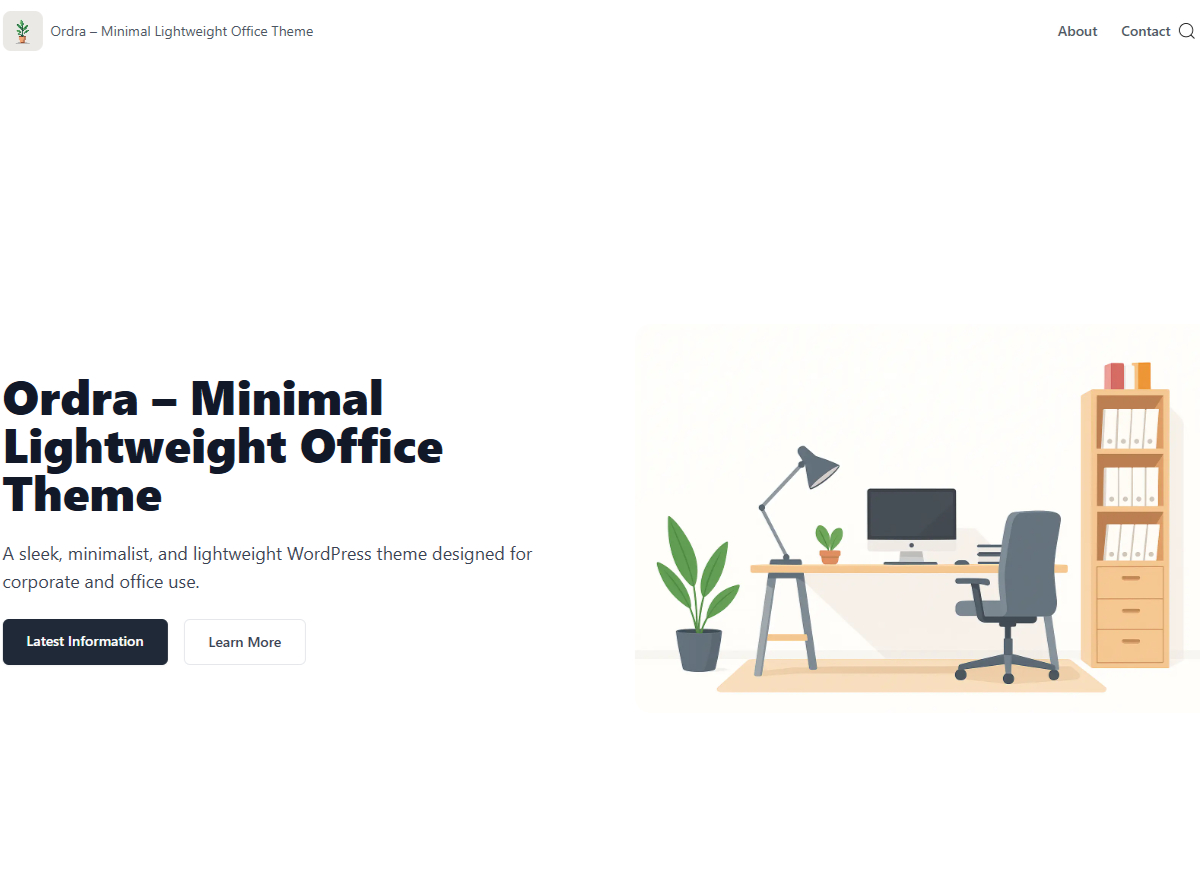
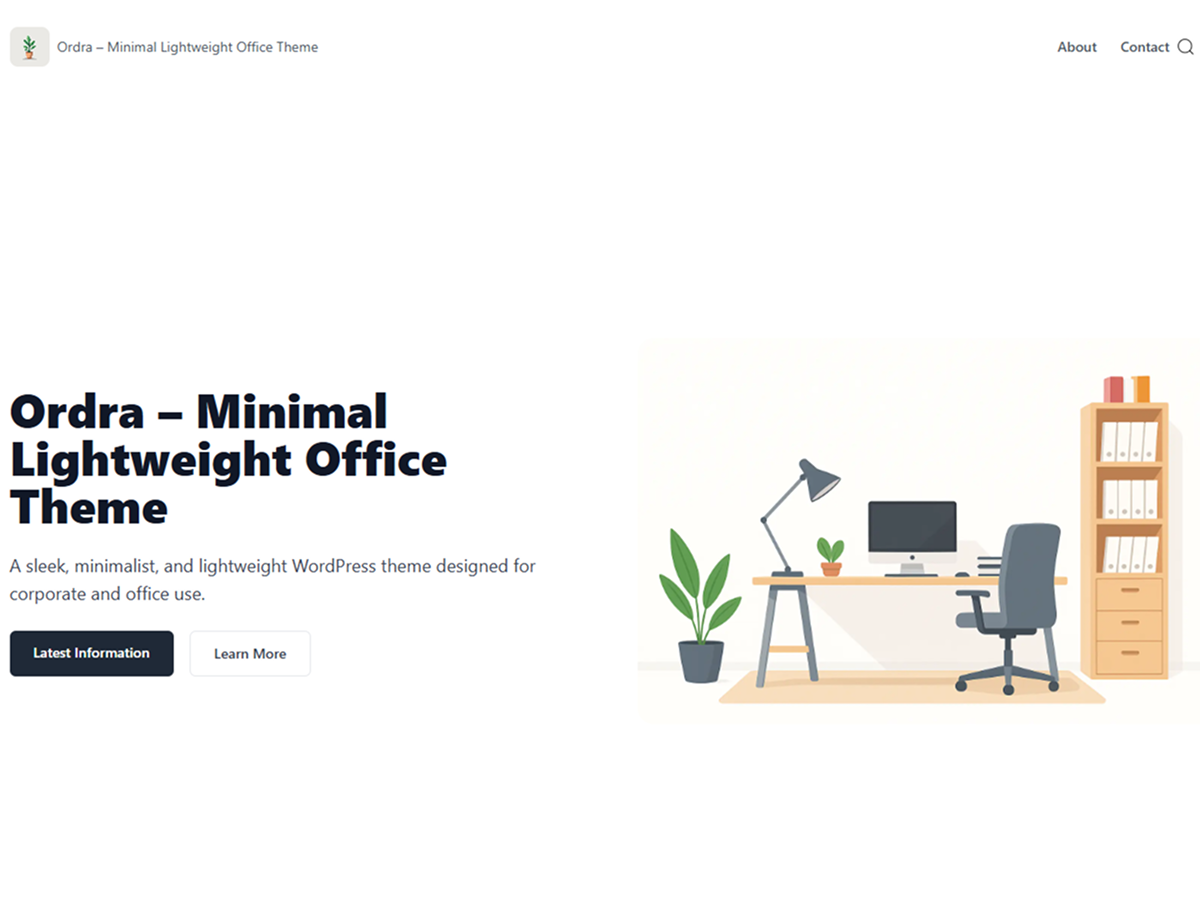
daily_operation_ordra passed the tests

diff --git a/style.css b/style.css
@@ -12,7 +12,7 @@ License: GNU General Public License v2 or later
 License URI: https://www.gnu.org/licenses/gpl-2.0.html
 Text Domain: daily_operation_ordra
 Domain Path: /languages
-Tags: one-column, two-columns, custom-background, custom-logo, custom-menu, featured-images, translation-ready, blog, accessibility-ready, responsive-layout, minimal, corporate
+Tags: one-column, two-columns, custom-background, custom-logo, custom-menu, featured-images, translation-ready, blog, accessibility-ready
 
 This theme is distributed under the terms of the GNU General Public License (GPL), version 2 or later.
 Copyright (C) 2025 Daily Operation Designs. All Rights Reserved.

diff --git a/header.php b/header.php
@@ -33,9 +33,9 @@
                 } else {
                     $custom_logo_url = get_theme_mod('dailyoperationdesigns_custom_logo');
                     if ($custom_logo_url) {
-                        echo '<img src="' . esc_url($custom_logo_url) . '" alt="' . esc_attr__( 'Logo', 'daily_operation_designs' ) . '" class="w-10 h-10 rounded-full object-cover shadow-lg">';
+                        echo '<img src="' . esc_url($custom_logo_url) . '" alt="' . esc_attr__( 'Logo', 'daily_operation_ordra' ) . '" class="w-10 h-10 rounded-full object-cover shadow-lg">';
                     } else {
-                        echo '<img src="' . esc_url(get_template_directory_uri() . '/images/placeholderSQ.webp') . '" alt="' . esc_attr__( 'Default Logo', 'daily_operation_designs' ) . '" class="w-10 h-10 rounded-lg object-cover ">';
+                        echo '<img src="' . esc_url(get_template_directory_uri() . '/images/placeholderSQ.webp') . '" alt="' . esc_attr__( 'Default Logo', 'daily_operation_ordra' ) . '" class="w-10 h-10 rounded-lg object-cover ">';
                     }
                 }
                 ?>
@@ -68,7 +68,7 @@
                     <button 
                         @click="open = !open" 
                         class="text-black hover:text-gray-300 transition w-8 h-8 flex items-center justify-center"
-                        aria-label="<?php esc_attr_e( 'Toggle Search', 'daily_operation_designs' ); ?>"
+                        aria-label="<?php esc_attr_e( 'Toggle Search', 'daily_operation_ordra' ); ?>"
                     >
                         <svg xmlns="http://www.w3.org/2000/svg" class="w-5 h-5" fill="none" viewBox="0 0 24 24" stroke="currentColor">
                             <circle cx="11" cy="11" r="8" />
@@ -80,7 +80,7 @@
                     <button 
                         @click="showMobile = !showMobile" 
                         class="md:hidden bg-black bg-opacity-10 p-2 rounded hover:bg-opacity-20 transition"
-                        aria-label="<?php esc_attr_e( 'Toggle menu', 'daily_operation_designs' ); ?>"
+                        aria-label="<?php esc_attr_e( 'Toggle menu', 'daily_operation_ordra' ); ?>"
                     >
                         <svg xmlns="http://www.w3.org/2000/svg" class="h-6 w-6 text-white" fill="none" viewBox="0 0 24 24" stroke="currentColor">
                             <path stroke-linecap="round" stroke-linejoin="round" stroke-width="2" d="M4 6h16M4 12h16M4 18h16" />
@@ -107,7 +107,7 @@
                 <button 
                     @click="showMobile = false" 
                     class="absolute top-16 right-4 text-gray-400 hover:text-gray-300"
-                    aria-label="<?php esc_attr_e( 'Close menu', 'daily_operation_designs' ); ?>"
+                    aria-label="<?php esc_attr_e( 'Close menu', 'daily_operation_ordra' ); ?>"
                 >
                     <svg xmlns="http://www.w3.org/2000/svg" class="w-8 h-8" fill="none" viewBox="0 0 24 24" stroke=white>
                         <path stroke-linecap="round" stroke-linejoin="round" stroke-width="2" d="M6 18L18 6M6 6l12 12" />

diff --git a/footer.php b/footer.php
@@ -12,9 +12,9 @@
                 } else {
                     $custom_logo_url = get_theme_mod('dailyoperationdesigns_custom_logo');
                     if ($custom_logo_url) {
-                        echo '<img src="' . esc_url($custom_logo_url) . '" alt="' . esc_attr__( 'Logo', 'daily_operation_designs' ) . '" class="w-10 h-10 rounded-full object-cover shadow-lg">';
+                        echo '<img src="' . esc_url($custom_logo_url) . '" alt="' . esc_attr__( 'Logo', 'daily_operation_ordra' ) . '" class="w-10 h-10 rounded-full object-cover shadow-lg">';
                     } else {
-                        echo '<img src="' . esc_url(get_template_directory_uri() . '/images/placeholderSQ.webp') . '" alt="' . esc_attr__( 'Default Logo', 'daily_operation_designs' ) . '" class="w-10 h-10 rounded-lg object-cover ">';
+                        echo '<img src="' . esc_url(get_template_directory_uri() . '/images/placeholderSQ.webp') . '" alt="' . esc_attr__( 'Default Logo', 'daily_operation_ordra' ) . '" class="w-10 h-10 rounded-lg object-cover ">';
                     }
                 }
                 ?>
@@ -33,7 +33,7 @@
                         'link_class' => 'text-sm hover:text-gray-600 transition-colors'
                     ));
                 else :
-                    echo '<a href="#" class="text-sm hover:text-gray-600 transition-colors">' . esc_html__( 'Add a Footer menu in the Appearance section', 'daily_operation_designs' ) . '</a>';
+                    echo '<a href="#" class="text-sm hover:text-gray-600 transition-colors">' . esc_html__( 'Add a Footer menu in the Appearance section', 'daily_operation_ordra' ) . '</a>';
                 endif;
             ?>
         </div>
@@ -42,16 +42,16 @@
     <!-- Copyright Notice -->
         <div class="mt-4 text-xs text-gray-400">
             <p class="text-center text-xs text-gray-400">
-                &copy; <?php echo date('Y'); ?> <?php bloginfo('name'); ?>. <?php esc_html_e( 'All rights reserved.', 'daily_operation_designs' ); ?>
+                &copy; <?php echo date('Y'); ?> <?php bloginfo('name'); ?>. <?php esc_html_e( 'All rights reserved.', 'daily_operation_ordra' ); ?>
             </p>
             <?php
             printf(
-                __('Theme by <a href="%s" target="_blank" class="text-center text-xs text-gray-400 hover:underline">Daily Operation Designs</a>', 'daily_operation_designs'),
+                __('Theme by <a href="%s" target="_blank" class="text-center text-xs text-gray-400 hover:underline">Daily Operation Designs</a>', 'daily_operation_ordra'),
                 esc_url('https://designs.dailyoperation.uk')
             );
 
             printf(
-                __(' Licensed under <a href="%s" target="_blank" class="text-center text-xs text-gray-400   hover:underline">GPLv2</a>', 'daily_operation_designs'),
+                __(' Licensed under <a href="%s" target="_blank" class="text-center text-xs text-gray-400   hover:underline">GPLv2</a>', 'daily_operation_ordra'),
                 esc_url('https://www.gnu.org/licenses/gpl-2.0.html')
             );
             ?>

diff --git a/single.php b/single.php
@@ -5,37 +5,47 @@
 
     <?php if ( have_posts() ) : while ( have_posts() ) : the_post(); ?>
 
-        
+      <!-- Begin Post Wrapper with post_class -->
+      <div id="post-<?php the_ID(); ?>" <?php post_class(); ?>>
 
-      <!-- Featured Image -->
-      <?php if ( has_post_thumbnail() ) : ?>
-        <div class="mb-10">
-          <img 
-            src="<?php the_post_thumbnail_url('large'); ?>" 
-            alt="<?php the_title_attribute(); ?>" 
-            class="w-full rounded-2xl object-cover shadow-md"
-          />
+        <!-- Featured Image -->
+        <?php if ( has_post_thumbnail() ) : ?>
+          <div class="mb-10">
+            <img 
+              src="<?php the_post_thumbnail_url('large'); ?>" 
+              alt="<?php the_title_attribute(); ?>" 
+              class="w-full rounded-2xl object-cover shadow-md"
+            />
+          </div>
+        <?php endif; ?>
+
+        <!-- Post Meta -->
+        <div class="mb-6 text-sm text-gray-500">
+          <time datetime="<?php echo get_the_date('c'); ?>">
+            <?php echo get_the_date(); ?>
+          </time>
+          <span class="mx-2">·</span>
+          <span><?php the_author(); ?></span>
         </div>
-      <?php endif; ?>
 
-      <!-- Post Meta -->
-      <div class="mb-6 text-sm text-gray-500">
-        <time datetime="<?php echo get_the_date('c'); ?>">
-          <?php echo get_the_date(); ?>
-        </time>
-        <span class="mx-2">·</span>
-        <span><?php the_author(); ?></span>
-      </div>
+        <!-- Title -->
+        <h1 class="text-4xl font-extrabold text-gray-900 mb-6">
+          <?php the_title(); ?>
+        </h1>
 
-      <!-- Title -->
-      <h1 class="text-4xl font-extrabold text-gray-900 mb-6">
-        <?php the_title(); ?>
-      </h1>
+        <!-- Content -->
+        <div class="prose max-w-none prose-lg prose-gray">
+          <?php the_content(); ?>
 
-      <!-- Content -->
-      <div class="prose max-w-none prose-lg prose-gray">
-        <?php the_content(); ?>
-      </div>
+          <?php
+          wp_link_pages(array(
+            'before' => '<div class="page-links">' . __('Pages:', 'daily_operation_ordra'),
+            'after'  => '</div>',
+          ));
+          ?>
+        </div>
+
+      </div> <!-- End Post Wrapper -->
 
     <?php endwhile; else : ?>
       <p class="text-center text-gray-500">Sorry, no content found.</p>

diff --git a/functions.php b/functions.php
@@ -1,9 +1,9 @@
 <?php
 // Enqueue Stylesheet
-function mytheme_enqueue_styles() {
+function daily_operation_ordra_enqueue_styles() {
     wp_enqueue_style('tailwindcss', get_template_directory_uri() . '/src/output.css', array(), null);
 }
-add_action('wp_enqueue_scripts', 'mytheme_enqueue_styles');
+add_action('wp_enqueue_scripts', 'daily_operation_ordra_enqueue_styles');
 
 // Enqueue AlpineJS script
 function my_theme_enqueue_alpinejs() {
@@ -11,7 +11,9 @@ function my_theme_enqueue_alpinejs() {
 }
 add_action('wp_enqueue_scripts', 'my_theme_enqueue_alpinejs');
 
-function mytheme_setup() {
+function daily_operation_ordra_setup() {
+
+    add_theme_support( 'automatic-feed-links' );
     // Add support for featured images
     add_theme_support('post-thumbnails');
 
@@ -20,8 +22,8 @@ function mytheme_setup() {
 
     // Register navigation menus
     register_nav_menus(array(
-        'primary' => __('Primary Menu', 'mytheme'),
-        'footer'  => __('Footer Menu', 'mytheme'),
+        'primary' => __('Primary Menu', 'daily_operation_ordra'),
+        'footer'  => __('Footer Menu', 'daily_operation_ordra'),
     ));
     add_theme_support('custom-logo', array(
         'height'      => 400,
@@ -30,7 +32,7 @@ function mytheme_setup() {
         'flex-width'  => true,
     ));
 }
-add_action('after_setup_theme', 'mytheme_setup');
+add_action('after_setup_theme', 'daily_operation_ordra_setup');
 
 function daily_operation_ordra_customize_register( $wp_customize ) {
     // Section for Front Page Button URL (your existing code)
@@ -83,7 +85,7 @@ function daily_operation_ordra_customize_register( $wp_customize ) {
 
     // Image setting and control
     $wp_customize->add_setting( 'front_page_image', array(
-        'default'           => get_template_directory_uri() . '/images/placeholder.jpg', // default image URL
+        'default'           => get_template_directory_uri() . '/images/placeholder.webp', // default image URL
         'sanitize_callback' => 'esc_url_raw',
     ) );
     $wp_customize->add_control( new WP_Customize_Image_Control( $wp_customize, 'front_page_image_control', array(

diff --git a/comments.php b/comments.php
@@ -11,11 +11,11 @@ if ( post_password_required() ) {
       <?php
         $comments_number = get_comments_number();
         if ( $comments_number === 1 ) {
-          printf( _x( 'One Comment', 'comments title', 'your-textdomain' ) );
+          printf( _x( 'One Comment', 'comments title', 'daily_operation_ordra' ) );
         } else {
           printf(
             /* translators: %s: number of comments */
-            _nx( '%s Comment', '%s Comments', $comments_number, 'comments title', 'your-textdomain' ),
+            _nx( '%s Comment', '%s Comments', $comments_number, 'comments title', 'daily_operation_ordra' ),
             number_format_i18n( $comments_number )
           );
         }

diff --git a/index.php b/index.php
@@ -7,12 +7,6 @@
 
 
 
-    
-    
-
-
-
-
 
 
 <!-- THE LOOP ---------------- -->
@@ -31,7 +25,8 @@
           />
         <?php else : ?>
           <img
-            src="<?php echo get_template_directory_uri(); ?>/images/placeholder2.jpg"
+            src='<?php echo esc_url( get_template_directory_uri() . "/images/placeholder2.webp" ); ?>'
+
             alt="Placeholder image"
             class="w-full h-56 object-cover hover:scale-105 transition"
           />

diff --git a/front-page.php b/front-page.php
@@ -82,7 +82,7 @@
           />
         <?php else : ?>
           <img
-            src="<?php echo get_template_directory_uri(); ?>/images/placeholder2.webp"
+            src='<?php echo esc_url( get_template_directory_uri() . "/images/placeholder2.webp" ); ?>'
             alt="Placeholder image"
             class="w-full h-56 object-cover hover:scale-105 transition"
           />

diff --git a/archive.php b/archive.php
@@ -33,7 +33,7 @@
           />
         <?php else : ?>
           <img
-            src="<?php echo get_template_directory_uri(); ?>/images/placeholder2.jpg"
+            src='<?php echo esc_url( get_template_directory_uri() . "/images/placeholder2.webp" ); ?>'
             alt="Placeholder image"
             class="w-full h-56 object-cover hover:scale-105 transition"
           />

diff --git a/search.php b/search.php
@@ -33,7 +33,7 @@
           />
         <?php else : ?>
           <img
-            src="<?php echo get_template_directory_uri(); ?>/images/placeholder2.jpg"
+            src='<?php echo esc_url( get_template_directory_uri() . "/images/placeholder2.webp" ); ?>'
             alt="Placeholder image"
             class="w-full h-56 object-cover hover:scale-105 transition"
           />
